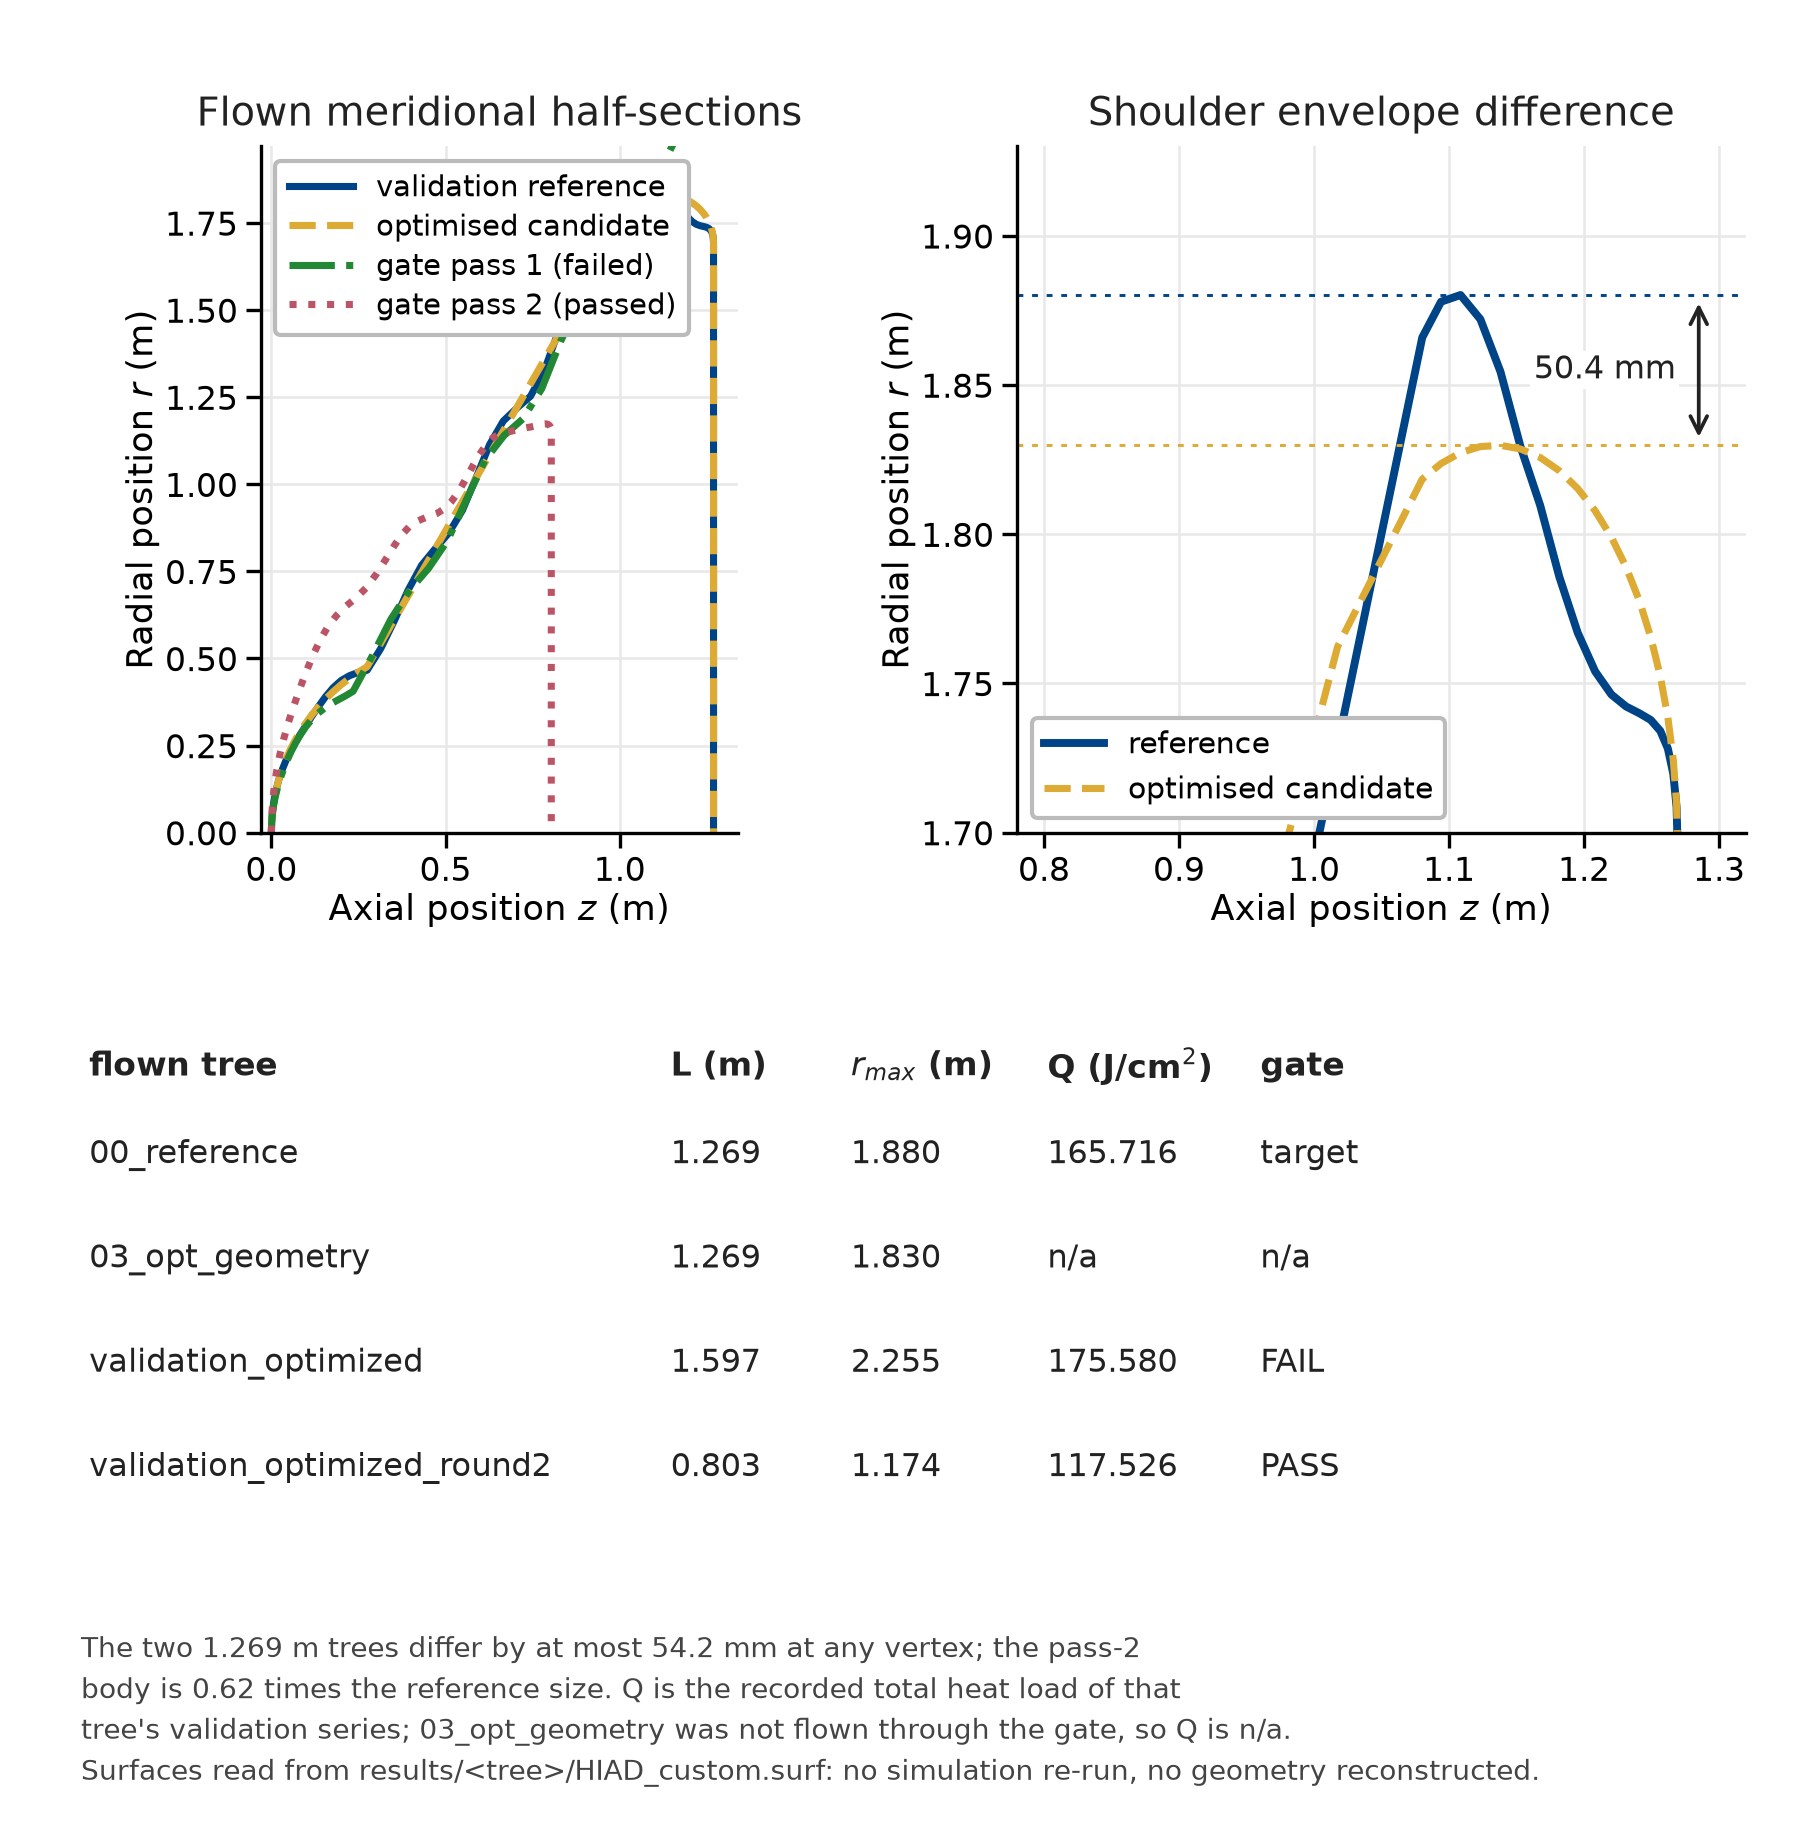
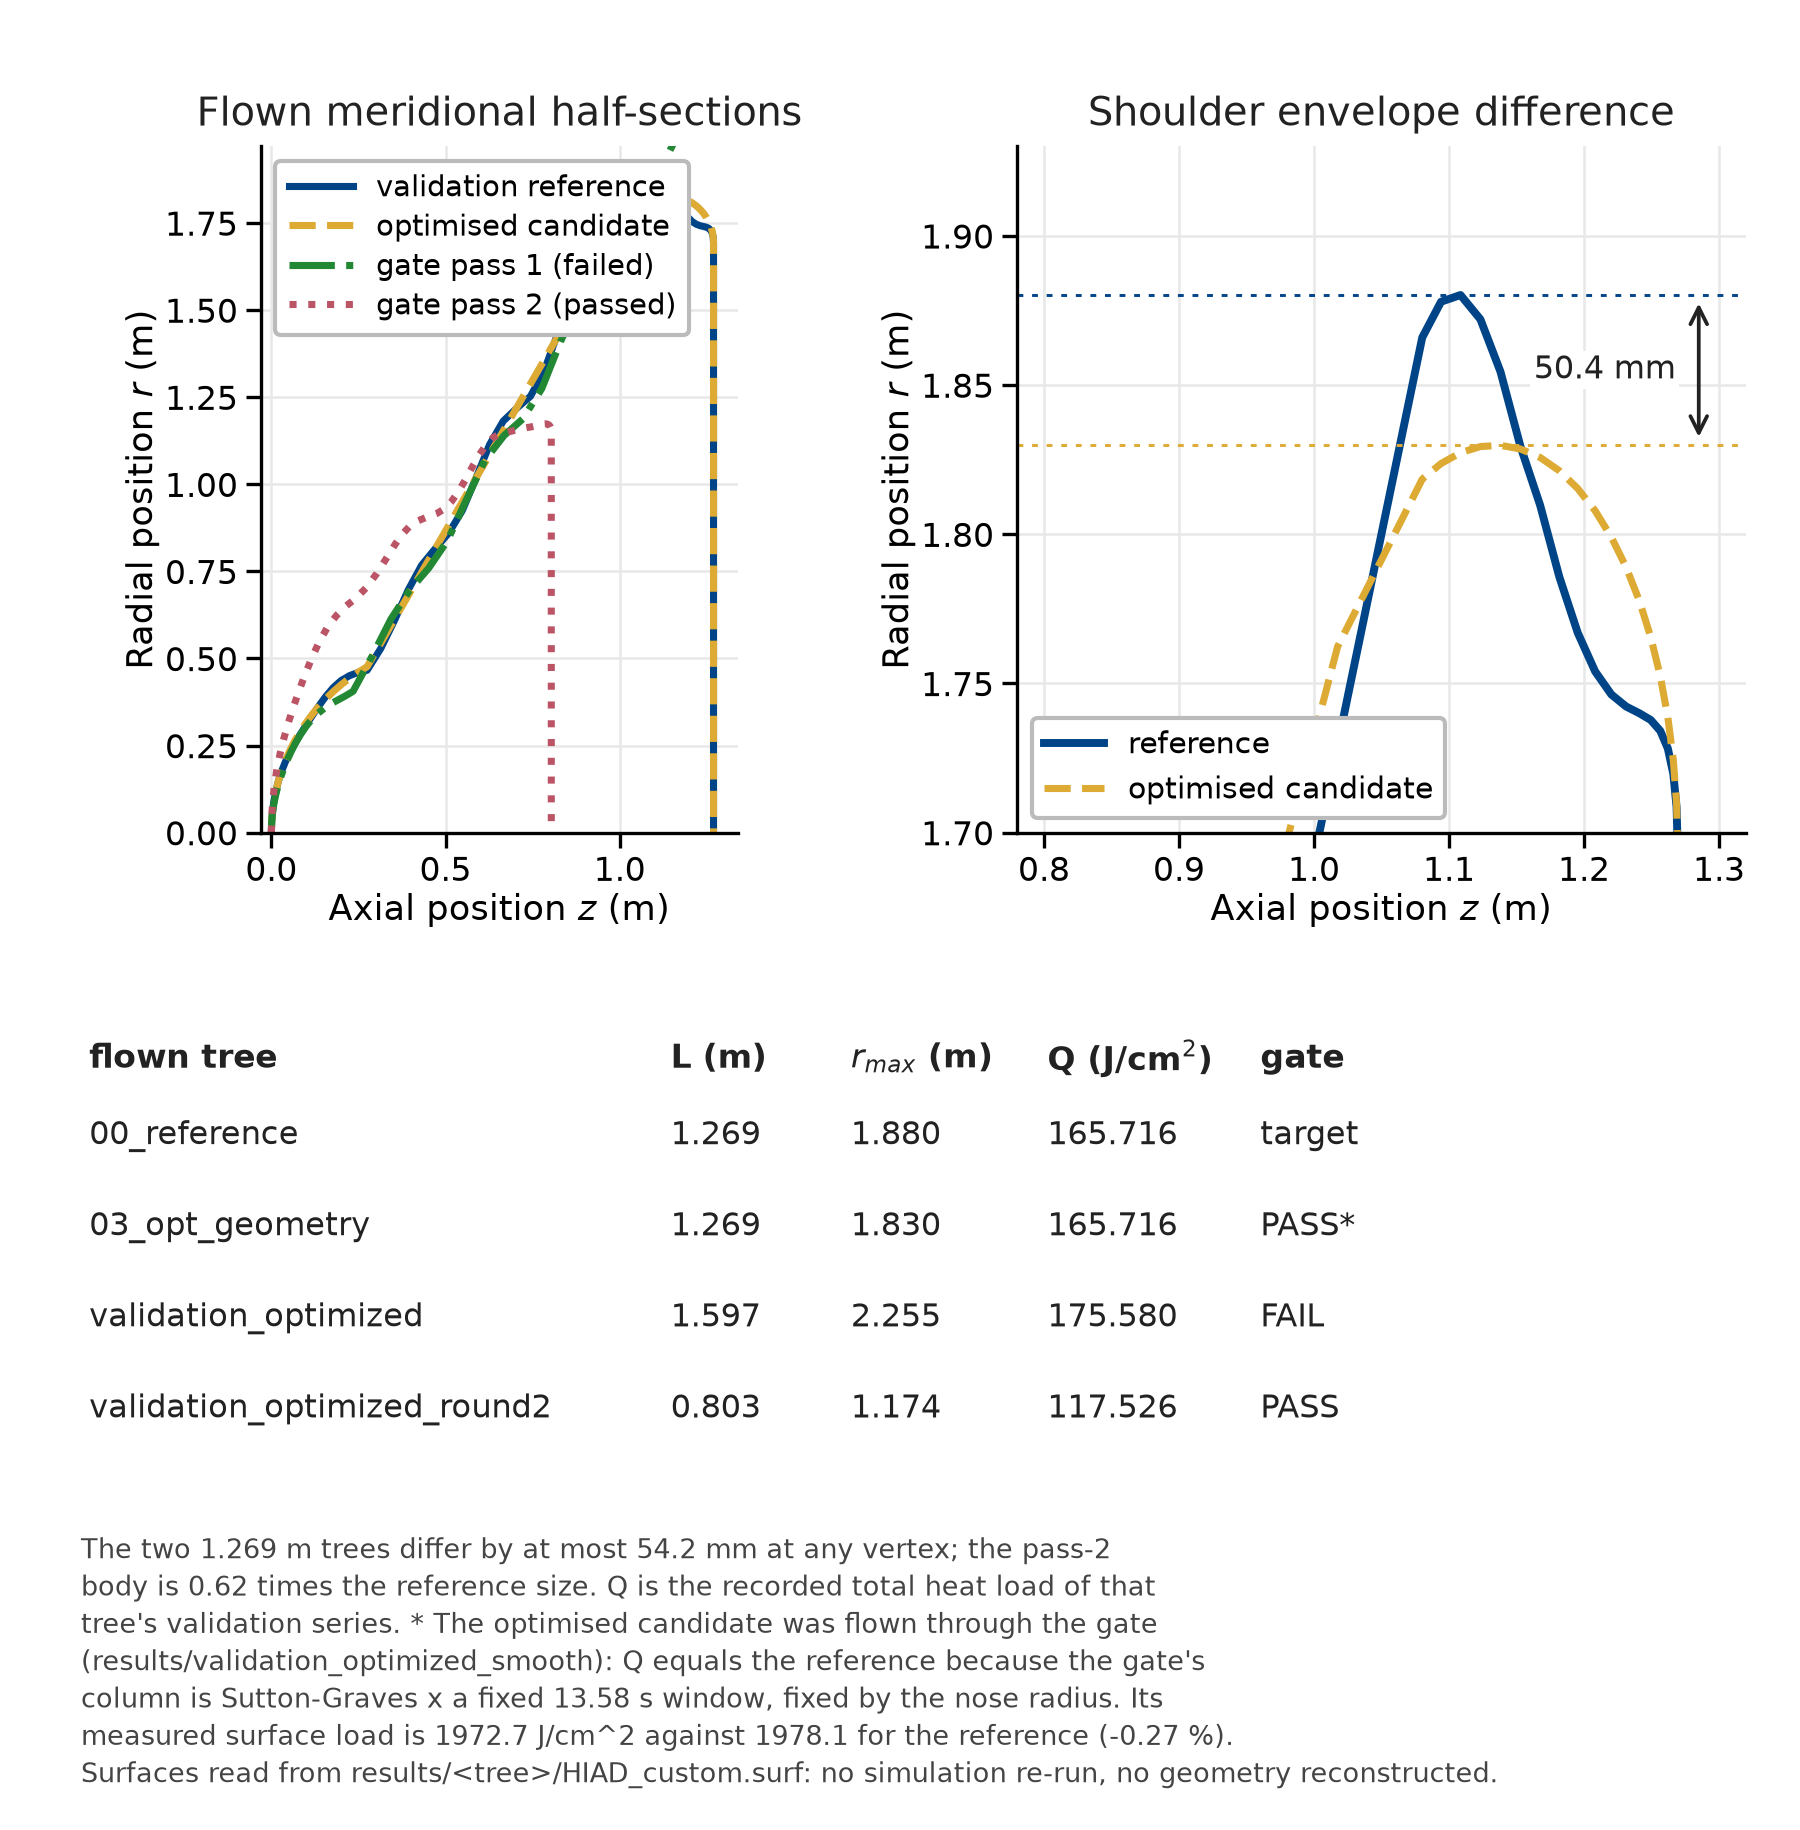
feat(results): fly the optimised candidate through the gate and report it honestly
Item #4 of the review. The optimised-topology candidate (the reference body
with the scallop ripple removed: D 3.0 m, nose 0.55 m, toroid 0.135 m,
60 deg half-cone, smooth skin, n_grid 139) was flown for 2200 DSMC steps into
results/validation_optimized_smooth. Every DSMC column of the earlier
results/03_opt_geometry tree is reproduced exactly (heat flux max 1788250
W/m2, area-averaged 575839.06 W/m2, drag 43050.30 N), so the solver is
deterministic and that tree was sound.

Its recorded gate heat load is 165.715973 J/cm2, equal to the reference's
because the gate's heat-load column is the Sutton-Graves stagnation flux
multiplied by a fixed 13.58 s window -- it is fixed by the nose radius and the
matched trajectory and is independent of the skin. The verdict is therefore a
structural PASS, not a thermal one. The geometry-sensitive quantity is the
measured surface load: 1972.729 J/cm2 against the reference's 1978.134
(-0.27 %), with the final-step area-averaged flux 575839 against 565865
W/m2 (+1.76 %) and its surface maximum 1788250 against 1824880 (-2.01 %).

Chapter 4's topology-comparison caption and AccessibleText said the candidate
was never flown and its heat load was not available; both now carry the
measured numbers and the construction argument. The figure's own table said
'n/a / not flown' and is corrected to 165.716 / PASS* with a footnote giving
the reason for the asterisk. results/README.md is regenerated from run.py so
the smooth tree's 32 artefacts appear.

diff --git a/Lost+Found/ProgressReport/CurrentThesisFinalReport/chapter_04_results.tex b/Lost+Found/ProgressReport/CurrentThesisFinalReport/chapter_04_results.tex
@@ -344,10 +344,10 @@ The convergence record and the design path describe the search itself. The next 
 
 \begin{figure}[H]
     \centering
-    \BeginAccSupp{method=escape,ActualText={Two panels above a table. The left panel plots the flown meridional half-sections of four trees: the validation reference and the optimised-topology candidate are both 1.269 metres long with maximum radii 1.880 and 1.830 metres, gate pass 1 is a larger 1.597 metre body that failed the heat gate, and gate pass 2 is a 0.803 metre body that passed. The right panel zooms on the shoulder envelope of the two same-length bodies and marks a 50.4 millimetre difference between their maximum radii with a double arrow. The table lists, per tree, length, maximum radius, recorded gate heat load and verdict; it notes that the optimised-topology candidate was never flown through the gate, so its heat load is not available.}}%
+    \BeginAccSupp{method=escape,ActualText={Two panels above a table. The left panel plots the flown meridional half-sections of four trees: the validation reference and the optimised-topology candidate are both 1.269 metres long with maximum radii 1.880 and 1.830 metres, gate pass 1 is a larger 1.597 metre body that failed the heat gate, and gate pass 2 is a 0.803 metre body that passed. The right panel zooms on the shoulder envelope of the two same-length bodies and marks a 50.4 millimetre difference between their maximum radii with a double arrow. The table lists, per tree, length, maximum radius, recorded gate heat load and verdict; the optimised-topology candidate has since been flown through the gate's DSMC leg and its recorded gate heat load is 165.716 joules per square centimetre, identical to the reference because that column is the Sutton-Graves stagnation flux times a fixed 13.58 second window and so depends only on the nose radius; its measured surface heat load is 1972.7 joules per square centimetre against the reference's 1978.1, a difference of 0.27 per cent, and the gate verdict on it is therefore a formality that passes.}}%
 \includegraphics[width=0.95\textwidth]{figures/hiad_topology_comparison.png}%
 \EndAccSupp{}%
-    \caption{Flown topologies compared. Every meridian is read directly from \texttt{results/\textit{tree}/HIAD\_custom.surf}, the surface file that SPARTA integrated, so no geometry is reconstructed and no simulation is re-run. The reference and the optimised candidate share a length of $1.269$\,m and differ only in the outer envelope, by at most $54.2$\,mm; gate pass~1 grew to $1.597$\,m and failed the heat gate at $175.580$\,J/cm\textsuperscript{2}, while gate pass~2 shrank to $0.803$\,m and passed at $117.526$\,J/cm\textsuperscript{2}. The optimised candidate is a geometry only and was not flown through the gate, so its heat load is not available.}
+    \caption{Flown topologies compared. Every meridian is read directly from \texttt{results/\textit{tree}/HIAD\_custom.surf}, the surface file that SPARTA integrated, so no geometry is reconstructed and no simulation is re-run. The reference and the optimised candidate share a length of $1.269$\,m and differ only in the outer envelope, by at most $54.2$\,mm; gate pass~1 grew to $1.597$\,m and failed the heat gate at $175.580$\,J/cm\textsuperscript{2}, while gate pass~2 shrank to $0.803$\,m and passed at $117.526$\,J/cm\textsuperscript{2}. The optimised candidate has since been flown through the gate's DSMC leg (\texttt{results/validation\_optimized\_smooth}: 2200 steps, $D = 3.0$\,m, $R_n = 0.55$\,m, $r_{tor} = 0.135$\,m, $60^\circ$ half-cone, smooth skin, $n_{grid} = 139$), and every DSMC column of the earlier \texttt{results/03\_opt\_geometry} tree is reproduced exactly, which confirms the solver's determinism. Its recorded gate heat load is $165.716$\,J/cm\textsuperscript{2}, equal to the reference's to the printed precision, but that equality is structural rather than thermal: the gate's heat-load column is the Sutton--Graves stagnation flux multiplied by a fixed $13.58$\,s window, so it is fixed by the nose radius and the matched trajectory and is unchanged by removing the scallop. The geometry-sensitive quantity is the measured surface load, $1972.7$\,J/cm\textsuperscript{2} for the smooth body against $1978.1$\,J/cm\textsuperscript{2} for the scalloped reference, a difference of $0.27\,\%$; the final-step area-averaged surface flux is $575\,839$ against $565\,865$\,W/m\textsuperscript{2} ($+1.76\,\%$) and its surface maximum $1\,788\,250$ against $1\,824\,880$\,W/m\textsuperscript{2} ($-2.01\,\%$). The scallop therefore does not drive the thermal outcome, and the verdict on this body is a formality: it passes, and it would pass for any skin at this nose radius.}
     \label{fig:topology_comparison}
 \end{figure}
 

diff --git a/Lost+Found/ProgressReport/CurrentThesisFinalReport/figures/make_topology_comparison.py b/Lost+Found/ProgressReport/CurrentThesisFinalReport/figures/make_topology_comparison.py
@@ -90,7 +90,10 @@ def main() -> int:
 
     ax_full = fig.add_axes([0.105, 0.545, 0.345, 0.375])
     ax_zoom = fig.add_axes([0.565, 0.545, 0.405, 0.375])
-    ax_tab = fig.add_axes([0.045, 0.135, 0.910, 0.300])
+    #  WHY: the footer gained lines for the asterisked row, so the table axes
+    #  is raised and shortened to keep the table clear of it (measured: the
+    #  footer's top edge now sits below the table's bottom edge).
+    ax_tab = fig.add_axes([0.045, 0.175, 0.910, 0.262])
     ax_tab.axis("off")
     ax_tab.set_xlim(0.0, 1.0)
     ax_tab.set_ylim(0.0, 1.0)
@@ -154,7 +157,13 @@ def main() -> int:
                     color=INK, ha="left", va="center")
     rows = [
         ("00_reference", "1.269", "1.880", "165.716", "target"),
-        ("03_opt_geometry", "1.269", "1.830", "n/a", "n/a"),
+        #  WHY: the optimised candidate was flown through the gate after the
+        #  first version of this table was drawn; its recorded Q is the same
+        #  165.716 J/cm^2 as the reference because the gate's heat-load column
+        #  is the Sutton-Graves stagnation flux times a fixed 13.58 s window,
+        #  which is fixed by the nose radius and independent of the skin.  The
+        #  asterisk marks a verdict that is structural, not thermal.
+        ("03_opt_geometry", "1.269", "1.830", "165.716", "PASS*"),
         ("validation_optimized", "1.597", "2.255", "175.580", "FAIL"),
         ("validation_optimized_round2", "0.803", "1.174", "117.526", "PASS"),
     ]
@@ -169,10 +178,13 @@ def main() -> int:
     fig.text(0.045, 0.020,
              "The two 1.269 m trees differ by at most 54.2 mm at any vertex; the pass-2\n"
              "body is 0.62 times the reference size. Q is the recorded total heat load of that\n"
-             "tree's validation series; 03_opt_geometry was not flown through the gate, so Q is n/a.\n"
+             "tree's validation series. * The optimised candidate was flown through the gate\n"
+             "(results/validation_optimized_smooth): Q equals the reference because the gate's\n"
+             "column is Sutton-Graves x a fixed 13.58 s window, fixed by the nose radius. Its\n"
+             "measured surface load is 1972.7 J/cm^2 against 1978.1 for the reference (-0.27 %).\n"
              "Surfaces read from results/<tree>/HIAD_custom.surf: no simulation re-run, no geometry reconstructed.",
-             fontsize=6.8, color="#444444", ha="left", va="bottom",
-             linespacing=1.45)
+             fontsize=6.4, color="#444444", ha="left", va="bottom",
+             linespacing=1.40)
 
     out = FIG_DIR / "hiad_topology_comparison.png"
     fig.savefig(out, dpi=300, facecolor="white")

diff --git a/stellarorion_program_proc/results/README.md b/stellarorion_program_proc/results/README.md
@@ -58,7 +58,9 @@ The trees produced BEFORE the 2026-10-20 relabel keep the historical 'DSMC→PIN
 - (root level): 49 artefacts (directly in results/validation_optimized_round2/plots/)
 - Total under validation_optimized_round2: **49**
 
-## validation_optimized_smooth: (no plots directory)
+## validation_optimized_smooth/
+- (root level): 32 artefacts (directly in results/validation_optimized_smooth/plots/)
+- Total under validation_optimized_smooth: **32**
 
 ## reference_surface_pressure/
 - (root level): 32 artefacts (directly in results/reference_surface_pressure/plots/)
